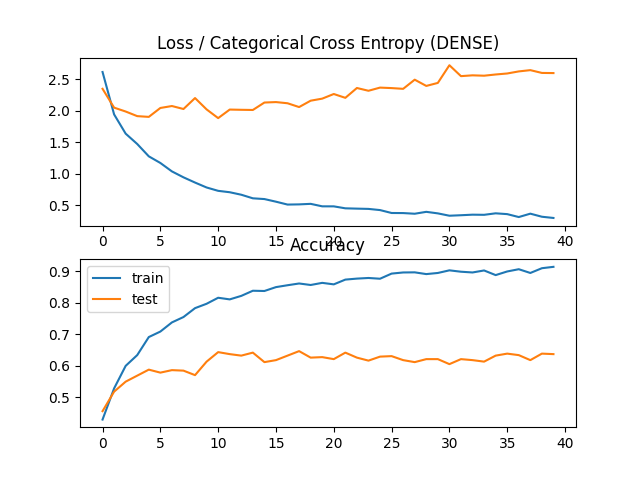
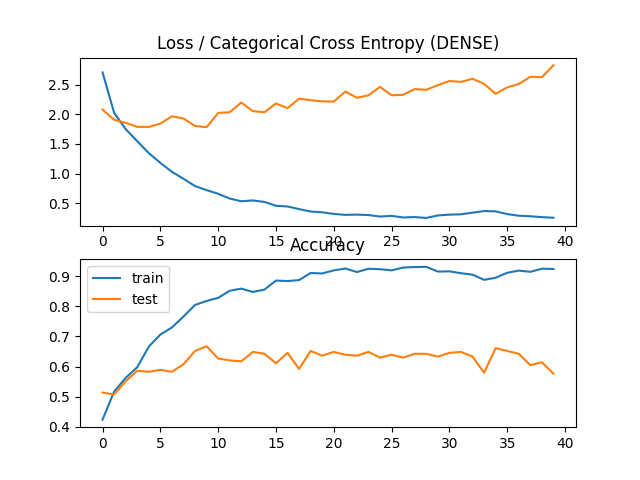
update train node.

diff --git a/src/Trainers/Summary_trainer.py b/src/Trainers/Summary_trainer.py
@@ -22,7 +22,7 @@ class summary_trainer:
 
         return
 
-    def encode_articles(self, text):
+    def encode_articles(self, text, no_of_words=10):
         x, y = None, None
         if text is None or text.strip() == "":
             return x, y
@@ -35,18 +35,18 @@ class summary_trainer:
             self.bag = bag_of_words(1)
             self.bag.load_wordbag()
 
-        if len(words) <= 10:
+        if len(words) <= no_of_words * 2:
             return x, y
 
         x, y = [], []
-        word_x = np.zeros((5, len(self.bag.words)), dtype="bool")
+        word_x = np.zeros((no_of_words, len(self.bag.words)), dtype="bool")
         word_y = np.zeros((len(self.bag.words)), dtype="bool")
         for i in range(len(words)):
 
             counter = 0
             next = 0
-            while counter < 5:
-                if i + counter + next > len(words) - 7:
+            while counter < no_of_words:
+                if i + counter + next > len(words) - (no_of_words * 2):
                     break
 
                 word = (words[i + counter + next])
@@ -59,7 +59,7 @@ class summary_trainer:
                     next = next + 1
                     continue
 
-                if counter == 4:
+                if counter == (no_of_words - 1):
                     out_word = (words[i + counter + next + 1])
                     indices = np.where(self.bag.words == out_word)
 
@@ -67,7 +67,7 @@ class summary_trainer:
 
                 counter = counter + 1
 
-            if len(word_x) == 5:
+            if len(word_x) == no_of_words:
                 x.append(word_x)
                 y.append(word_y)
 
@@ -90,11 +90,11 @@ class summary_trainer:
             [
                 Input(shape=(n_features, n_class)),
                 # Bidirectional(LSTM(n_nodes, return_sequences=True)),
-                # LSTM(n_nodes, recurrent_dropout=0.2, return_sequences=True),
+                LSTM(2048, recurrent_dropout=0.3, return_sequences=True),
                 # Dropout(0.2),
                 # LSTM(n_nodes, recurrent_dropout=0.2, return_sequences=True),
                 # Dropout(0.2),
-                LSTM(n_nodes, recurrent_dropout=0.2),
+                LSTM(2048, recurrent_dropout=0.3),
                 Dense(n_class, activation="softmax"),
             ]
         )
@@ -136,3 +136,21 @@ class summary_trainer:
 
     def predict_model(self):
         return
+
+    def plot_history(self):
+        if self.history is None:
+            return
+
+        filename = "{0}SummarizationTraining_history.png".format(self.PLOTS_DIRECTORY)
+        # plot loss during training
+        pyplot.subplot(211)
+        pyplot.title('Loss / Categorical Cross Entropy ({})'.format("LSTM(2048)"))
+        pyplot.plot(self.history.history['loss'], label='train')
+        pyplot.plot(self.history.history['val_loss'], label='test')
+        # plot accuracy during training
+        pyplot.subplot(212)
+        pyplot.title('Accuracy')
+        pyplot.plot(self.history.history['accuracy'], label='train')
+        pyplot.plot(self.history.history['val_accuracy'], label='test')
+        pyplot.legend()
+        pyplot.savefig(filename)

diff --git a/src/Trainers/trainer.py b/src/Trainers/trainer.py
@@ -1,0 +1,10 @@
+
+
+class Trainer:
+    def __init__(self):
+        self.bag = None
+        self.model = None
+        self.history, self.loss, self.accuracy = None, None, None
+        self.result = None
+
+        self.PLOTS_DIRECTORY = "../plots/"

diff --git a/readme.md b/readme.md
@@ -1,6 +1,8 @@
 # Legal Advisor SLM #
 
 1. Background
+
+
 2. Data Source
 3. Preparation
 4. Training
@@ -9,8 +11,15 @@
 
 
 ## 4. Training
+i. Judgements Classification
+
+![dense_neural_network.png](plots%2Fdense_neural_network.png)
 
 <pre>
 Testing loss : 2.3349015712738037; accuracy: 0.657045841217041
 </pre>
 
+![CategoriseTraining_history.png](plots%2FCategoriseTraining_history.png)
+
+
+## 5. Output
